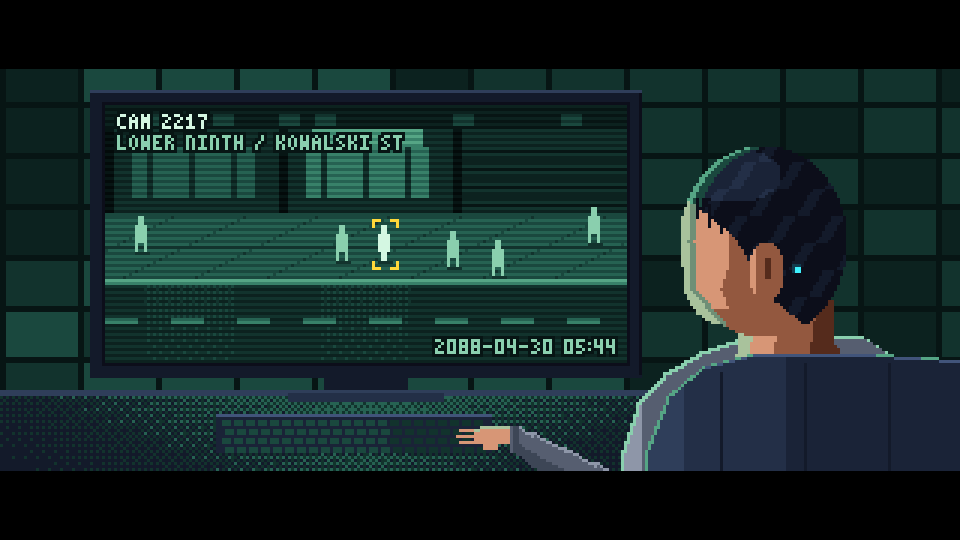
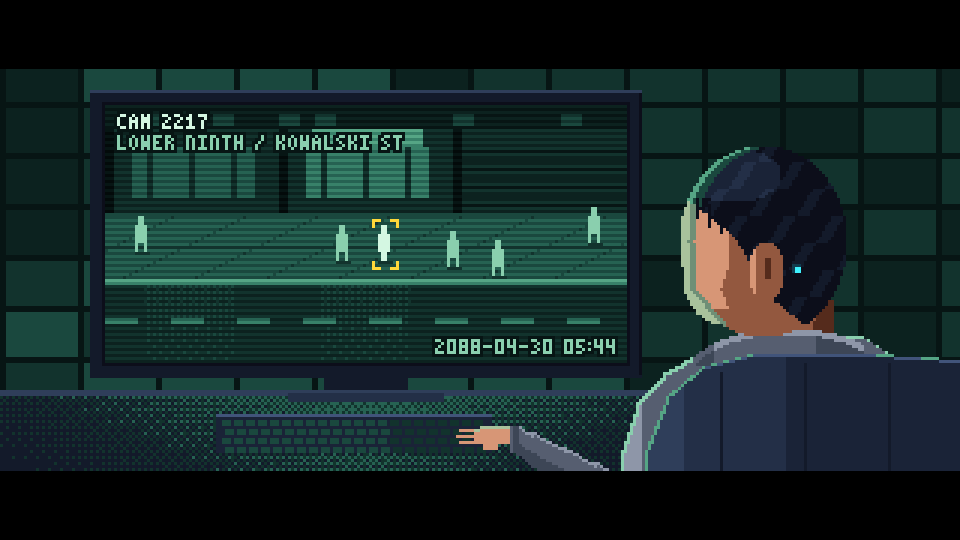
The intro's shot 2: the jacket's collar closes round Juno's neck. The neckline curves up from both shoulders with a lit lip along it, rolled and darker at its ends, and nothing of the neck shows below it (the same in the dark close-up). Screen: docs/rooms/intro_desk_x3.png. validate 0 errors, solve 

Changed region(s): [[0.7188, 0.5926, 0.9062, 0.6815]]

diff --git a/assets/intro.js b/assets/intro.js
@@ -1,7 +1,7 @@
 // Generated by tools/build-atlas.mjs. Do not edit.
 Cutaway.assets.pack({
   images: {
[2 lines of base64/hex data omitted]
   },
   anims: {
     "intro_desk_bg": { image: "intro_atlas", frames: [[1,1,320,180,100]] },

diff --git a/art/intro/desk.px.js b/art/intro/desk.px.js
@@ -91,9 +91,12 @@ function paint(c, mode) {
   // the neck, into the collar
   for (let y = 100; y < 128; y++) { const l = lerp([[100, 248], [128, 244]], y), r = lerp([[100, 278], [114, 278], [128, 286]], y)
     for (let x = Math.round(l); x < r; x++) c.px(x, y, (x - l) < 4 ? "l" : (x - l) < 12 ? "S" : (x - l) < 24 ? "s" : "O") }
-  // the collar stands round the neck
-  for (let y = 116; y < 130; y++) for (let x = 236; x < 296; x++) {
-    if (inE(x, y, 266, 134, 31, 17)) c.px(x, y, !inE(x, y, 266, 136, 30, 16) ? "G" : x < 272 ? "g" : "h")
+  // the collar closes round the neck: the neckline curves up from both shoulders, a lit lip along it, rolled and
+  // darker at its ends; nothing of the neck shows below it
+  for (let y = 104; y < 122; y++) for (let x = 230; x < 298; x++) {
+    if (!inE(x, y, 262, 124, 33, 15)) continue
+    const lip = !inE(x, y, 262, 126, 32, 15), end = x < 238 || x > 287
+    c.px(x, y, lip ? (end ? "g" : "G") : end ? "h" : x < 272 ? "g" : "h")
   }
   // the chair's back, nearest of all: a padded shell, its rounded top under her collar, the monitor's light on its
   // edge, a lit rim, stitched channels running up it, darker away from the monitor
